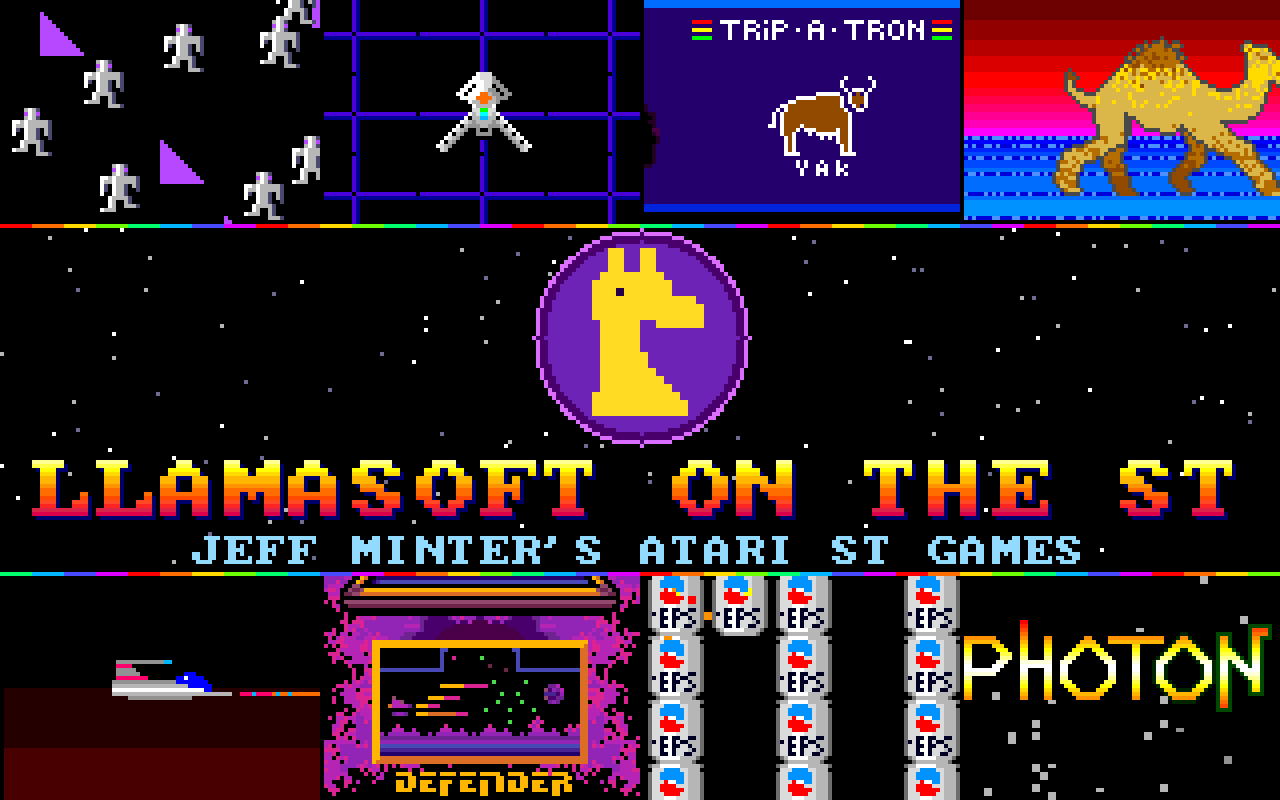
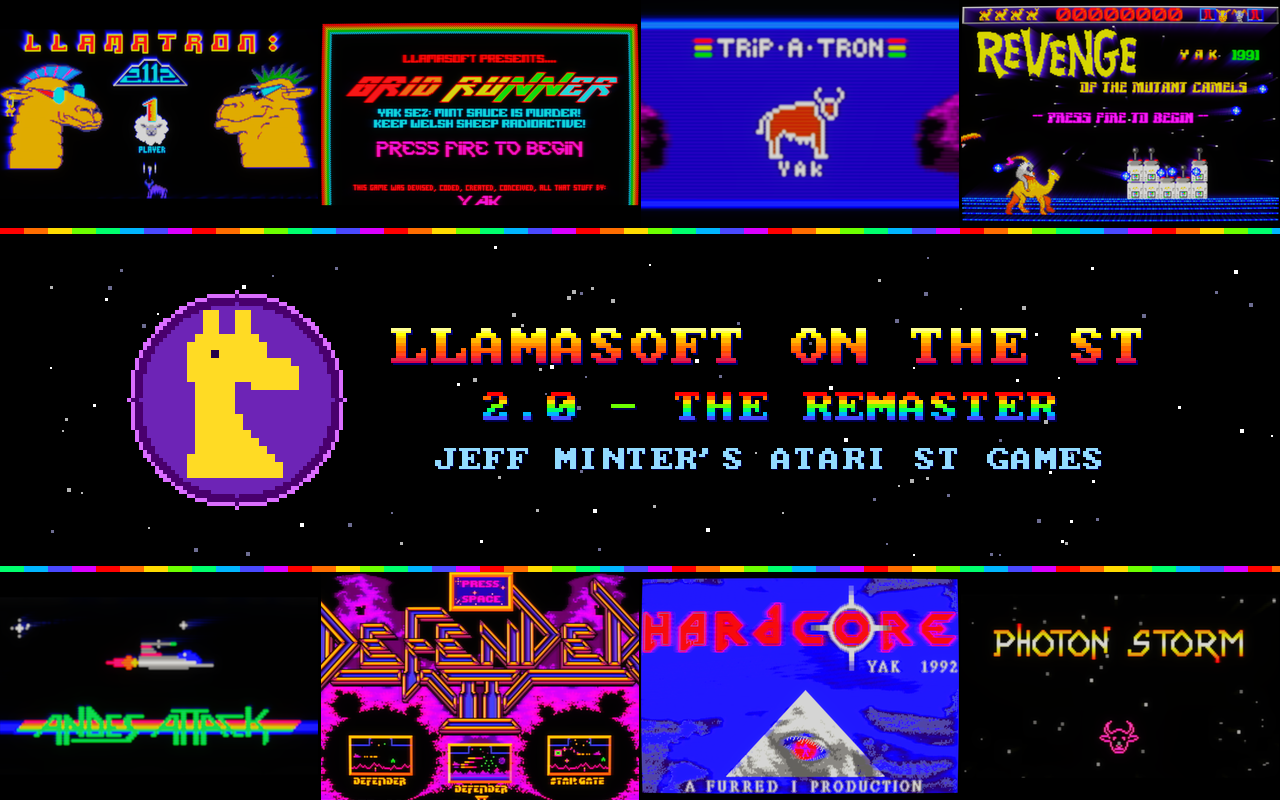
README cover for 2.0: the CRT++ title captures, "2.0 - THE REMASTER"

diff --git a/Tools/make_steam_art.py b/Tools/make_steam_art.py
@@ -199,8 +199,46 @@ def logo():
     return img.crop(img.getbbox())
 
 
+def readme_cover(shots):
+    """The README's cover 1280 x 800 (res/cover.png, 2.0): four games above and four below, the llama, the title and
+    "2.0 - THE REMASTER" on stars between them, rainbow raster lines either side."""
+    img = Image.new('RGB', (1280, 800), (0, 0, 0))
+    th = 228  # each tile row
+    names = ['llamatitle', 'gridrunner', 'tripatron', 'camels', 'andes', 'defender2', 'hardcore', 'photonstorm']
+    for i, n in enumerate(names):
+        x, y = (i % 4) * 320, 0 if i < 4 else 800 - th
+        img.paste(tile(shots, n, 318, th, fit=(n not in ('tripatron', 'defender2'))), (x + (1 if i % 4 else 0), y))
+    band = (th + 6, 800 - th - 6)
+    stars(img, (0, band[0], 1280, band[1]), 110, 2112)
+    raster_line(img, th, 6, 3)
+    raster_line(img, 800 - th - 6, 6, 3, 4)
+    llama, title, sub = llama_image(), title_image(5), sub_image(3)
+    remaster = text_image('2.0 - THE REMASTER', 4, lambda f: RAINBOW[min(7, int(f * 8))], st((0, 0, 2)))
+    lw, lh = llama.width * 4, llama.height * 4
+    gap = 44
+    text_w = max(title.width, remaster.width, sub.width)
+    x0 = (1280 - lw - gap - text_w) // 2
+    mid = (band[0] + band[1]) // 2
+    paste_px(img, llama, x0, mid - lh // 2, 4)
+    tx = x0 + lw + gap
+    block_h = title.height + 22 + remaster.height + 22 + sub.height
+    ty = mid - block_h // 2
+    paste_px(img, title, tx + (text_w - title.width) // 2, ty)
+    ty += title.height + 22
+    paste_px(img, remaster, tx + (text_w - remaster.width) // 2, ty)
+    ty += remaster.height + 22
+    paste_px(img, sub, tx + (text_w - sub.width) // 2, ty)
+    return img
+
+
 def main():
     shots = sys.argv[1]
+    if len(sys.argv) > 2 and sys.argv[2] == '--cover':  # the README's cover only
+        img = readme_cover(shots)
+        path = os.path.join(ROOT, 'res', 'cover.png')
+        img.save(path, optimize=True)
+        print(f'{path} {img.size[0]} x {img.size[1]}')
+        return
     out = sys.argv[2] if len(sys.argv) > 2 else os.path.join(ROOT, 'res', 'steam')
     os.makedirs(out, exist_ok=True)
     for name, make in (('capsule', lambda: capsule(shots)), ('wide', lambda: wide(shots)),

diff --git a/CLAUDE.md b/CLAUDE.md
@@ -408,7 +408,9 @@ starts a twin-stick game. Screenshots -> PNG with pillow to view them.
 Crash: the log gets "CRASH: ... llamatron.exe+0x..." frames; llvm-symbolizer --obj=build\llamatron.exe
 0x140000000+offset.
 
-## Cover (2026-11-01): res/cover.png, Tools/make_cover.py <folder of screenshots>
+## Cover: res/cover.png (2.0, 2026-11-08: python -P Tools/make_steam_art.py logs/steamshots --cover - the owner's CRT++
+title captures as the tiles, "2.0 - THE REMASTER"; the 1.x cover below was make_cover.py's, whose helpers it reuses)
+## Cover 1.x (2026-11-01): Tools/make_cover.py <folder of screenshots>
 A 320 x 200 ST screen x4 in ST colours (3 bits a channel): 8 game tiles (80 x 56 crops of --shot screenshots,
 CROPS in the script; the screenshots aren't in git), make_icon.py's llama on a badge, the title in SDL's 8 x 8
 font doubled with a raster gradient. In README.md.
